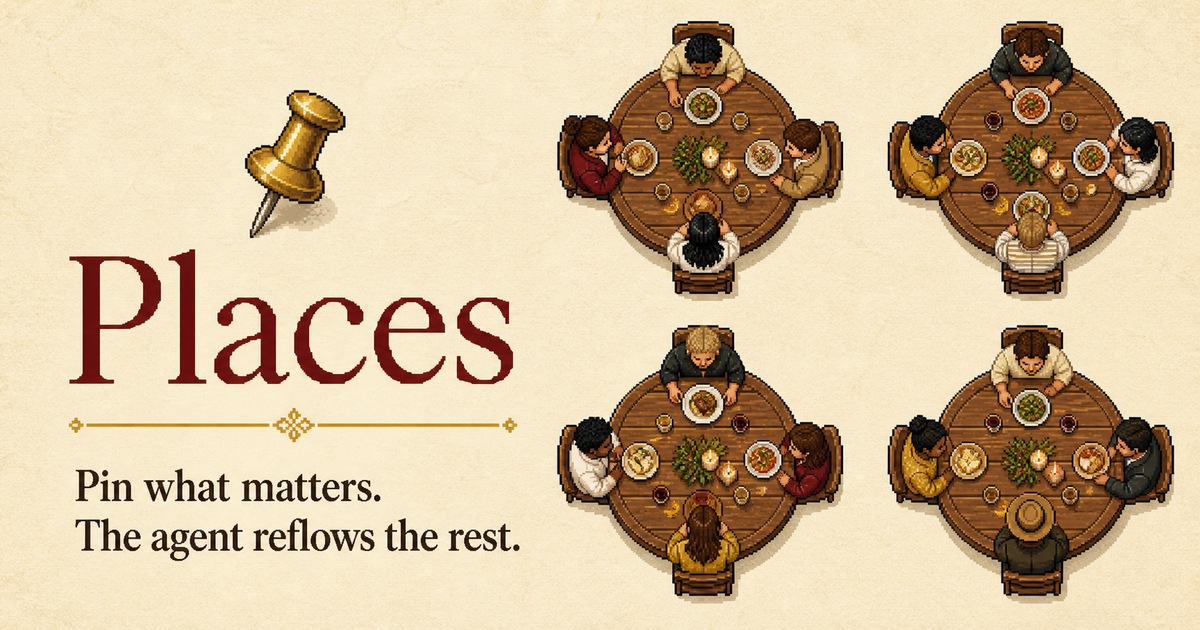
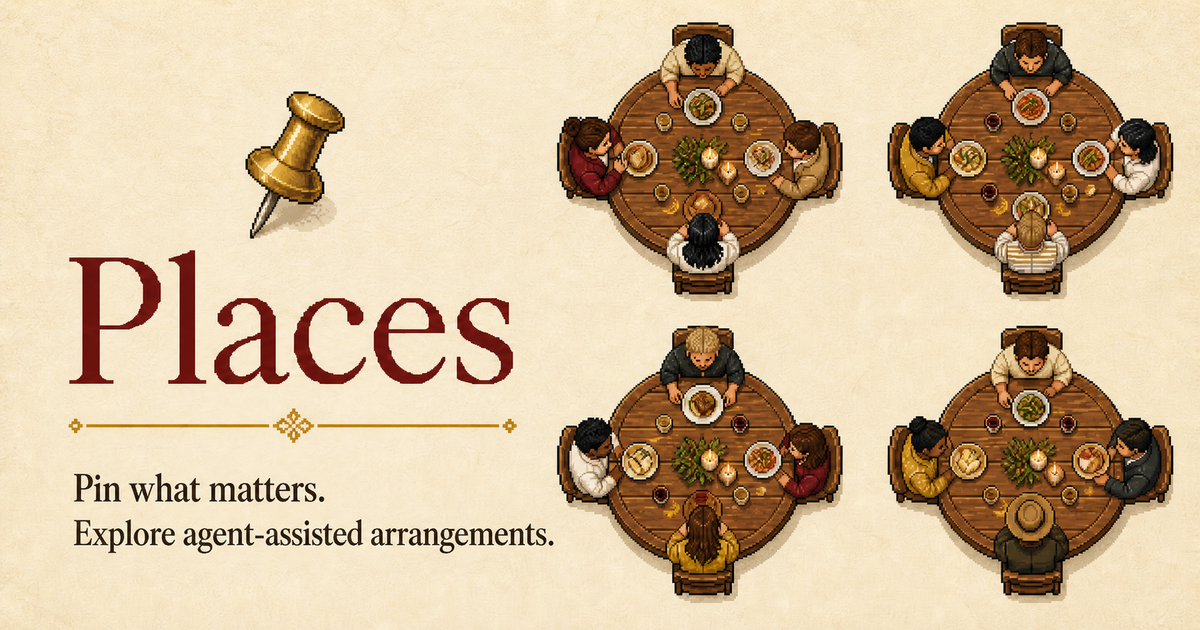
docs: describe the split modules, new tools and saved rooms
The README and AGENTS guide still described a single `domain.ts`, an
always-on tool set without the rule tools, and a room that lived only in
memory. Update both for the module layout, the constraint tools, seeded
URLs and undo/redo, and align the tagline and social metadata with the
regenerated Open Graph image.

diff --git a/web/app/layout.tsx b/web/app/layout.tsx
@@ -7,8 +7,7 @@ const socialImageUrl = new URL('/og.png', siteUrl).toString();
 export const metadata: Metadata = {
   metadataBase: siteUrl,
   title: 'Places',
-  description:
-    'A shared event floorplan where people pin what matters and an agent reflows everything else.',
+  description: 'Pin what matters. Explore agent-assisted arrangements.',
   alternates: {
     canonical: '/',
   },
@@ -17,7 +16,7 @@ export const metadata: Metadata = {
   },
   openGraph: {
     title: 'Places',
-    description: 'Pin what matters. The agent reflows the rest.',
+    description: 'Pin what matters. Explore agent-assisted arrangements.',
     type: 'website',
     url: '/',
     images: [
@@ -25,14 +24,14 @@ export const metadata: Metadata = {
         url: socialImageUrl,
         width: 1200,
         height: 630,
-        alt: 'Places — Pin what matters. The agent reflows the rest.',
+        alt: 'Places — Pin what matters. Explore agent-assisted arrangements.',
       },
     ],
   },
   twitter: {
     card: 'summary_large_image',
     title: 'Places',
-    description: 'Pin what matters. The agent reflows the rest.',
+    description: 'Pin what matters. Explore agent-assisted arrangements.',
     images: [socialImageUrl],
   },
 };

diff --git a/README.md b/README.md
@@ -1,10 +1,10 @@
 <div align="center">
 
-<img src="./docs/logo.jpg" alt="Places — a gold thumbtack pinning a blank place-card inside a sealing-wax ring" width="180">
+<img src="./docs/logo.jpg" alt="Places: a gold thumbtack pinning a blank place-card inside a sealing-wax ring" width="180">
 
 # Places
 
-**A shared seating chart. You pin. The agent reflows the rest.**
+**Pin what matters. Explore agent-assisted arrangements.**
 
 <img src="./docs/media/floor.png" alt="Places floorplan: the Orchard House Saturday. Pixel-art guests seated at four tables" width="1240">
 
@@ -13,8 +13,6 @@
 <p>
   <a href="https://github.com/mateolafalce/places/actions/workflows/ci.yml"><img alt="CI status" src="https://github.com/mateolafalce/places/actions/workflows/ci.yml/badge.svg"></a>
   <img alt="Built for the OpenAI WebMCP Challenge" src="https://img.shields.io/badge/WebMCP-OpenAI%20Challenge-C9A227.svg?style=flat-square&labelColor=8C2F39">
-  <img alt="Runtime: client-side" src="https://img.shields.io/badge/runtime-client--side-F4EFE4.svg?style=flat-square&labelColor=8C2F39">
-  <img alt="Backend: none" src="https://img.shields.io/badge/backend-none-F4EFE4.svg?style=flat-square&labelColor=8C2F39">
   <img alt="License: MIT" src="https://img.shields.io/badge/license-MIT-C9A227.svg?style=flat-square&labelColor=8C2F39">
 </p>
 
@@ -22,9 +20,11 @@
 
 A family dinner, a workshop, a small wedding: the pain is a spreadsheet and an argument. The agent is good at constraints. The person is good at “Mabel stays at the window, period.”
 
-Places is one room in the browser. Drag and pin on the floorplan. The agent never scrapes the DOM — it only sees WebMCP tools, and those tools **appear and disappear** with your selection and pins. Every write goes through the same `executeCommand()` the UI uses, so a tool call moves a place-card on the SVG you are looking at.
+Places is one room in the browser. Drag and pin on the floorplan. The agent never scrapes the DOM; it only sees WebMCP tools, and those tools **appear and disappear** with your selection and pins. Every write goes through the same `executeCommand()` the UI uses, so a tool call moves a place-card on the SVG you are looking at.
 
-No backend, no login, no API key. State lives in the tab. Export JSON or PNG when you want a copy.
+No backend, no login, no API key. State is restored from `sessionStorage` in
+the current tab. Export or import versioned JSON, save a PNG, and undo or redo
+room commands when you want to explore safely.
 
 Open the live demo in ChatGPT’s in-app browser (WebMCP is on by default) or in Chrome with `chrome://flags/#enable-webmcp-testing`.
 
@@ -53,7 +53,11 @@ Human controls still work if `document.modelContext` is missing. The badge in th
 
 **What was hard before.** A constraint solver dumps a list. A group chat dumps an argument. Neither could keep a live room, a pin the agent cannot violate, and a reflow in one place. Places does, because the page is ground truth for both hands.
 
-**How it is implemented.** `document.modelContext.registerTool` for a stable set (`get_room_state`, `list_violations`, `explain_guest`, `add_guest`). Selection, pins, and open violations abort the previous `AbortController` and register the tools that make sense now. Writes go through `executeCommand()` in `web/lib/places/domain.ts`. If a move hits a pin, the command returns `pinned_by_human` and the sprite does not move.
+**How it is implemented.** `document.modelContext.registerTool` exposes a stable
+read/rule set. Selection, pins, and open violations abort the previous
+`AbortController` and register the tools that make sense now. Writes go through
+`executeCommand()` in `web/lib/places/commands.ts`. If a move hits a pin, the
+command returns `pinned_by_human` and the sprite does not move.
 
 ```
         you ── pin / drag ──►  ┌──────────────────┐
@@ -83,6 +87,8 @@ Always on:
 | `list_violations` | What is wrong and why |
 | `explain_guest` | Where someone sits, whether they are pinned, which rules apply |
 | `add_guest` | Seat a last-minute guest in a held empty chair |
+| `list_constraints` | Read the rules enforced by the solver |
+| `add_constraint` / `remove_constraint` | Change the room's rule data |
 
 Registered with the current selection, then aborted when it changes:
 
@@ -90,7 +96,7 @@ Registered with the current selection, then aborted when it changes:
 |---|---|
 | A table is selected | `seat_guest_here`, `set_capacity`, `leave_empty_seats` |
 | An unpinned guest is selected | `pin_guest`, `move_guest`, `swap_guests` |
-| A pinned guest is selected | `unpin_guest` only — `move_guest` is not registered |
+| A pinned guest is selected | `unpin_guest` only; `move_guest` is not registered |
 | The room has violations | `fix_violations` (never moves pins; may return `blocked_by_pins`) |
 
 There is no always-on `move_guest(guestId, tableId)`. The agent reflows with `fix_violations`, or acts on whoever you have selected. That is the point: you choose the contract, the agent works inside it.
@@ -112,6 +118,11 @@ A fictional dinner used as a concrete seed, not a CSV of Guest 1–22. Pixel-art
 
 Each load picks one of four opening problems (rivals seated together, a split plus-one, Mabel off the window, a kid off the kitchen) and one guest who could not make it. **New challenge** rerolls that seed.
 
+Use `?seed=0` through `?seed=3` for a shareable opening challenge. Each seed has
+its own tab-local saved snapshot, so reloading keeps later moves. JSON exports
+use `schemaVersion: 1` and can be restored with **Import**. Undo/redo is available
+from the header or with <kbd>Ctrl/⌘ Z</kbd> and <kbd>Ctrl/⌘ Shift Z</kbd>.
+
 ## Run locally
 
 Node 22.13 or newer. From `web/`:
@@ -124,7 +135,7 @@ npm run dev
 Then:
 
 ```bash
-npm test          # seating rules, pins, reflow
+npm test          # domain, WebMCP and UI tests + lib/places coverage gate
 npm run typecheck
 npm run lint
 npm run format:check

diff --git a/AGENTS.md b/AGENTS.md
@@ -6,7 +6,11 @@ The application lives in `web/`, a Vinext/React 19 single-page site. Route and
 global styling files are in `web/app/`; feature components belong in
 `web/components/places/`, while reusable primitives live in
 `web/components/ui/`. Seating rules and WebMCP integration are isolated under
-`web/lib/places/`. Static browser assets are stored in `web/public/`.
+`web/lib/places/`, one concern per module: `roster.ts` (seed data), `types.ts`,
+`seating.ts` (seat geometry), `constraints.ts` (the rule model), `solver.ts`
+(reflow search), `commands.ts` (state transitions), `room.ts` (lifecycle),
+`snapshot.ts` (read model) and `index.ts`, the barrel every consumer imports
+from. Static browser assets are stored in `web/public/`.
 
 Project documentation and source artwork live in `docs/`.
 
